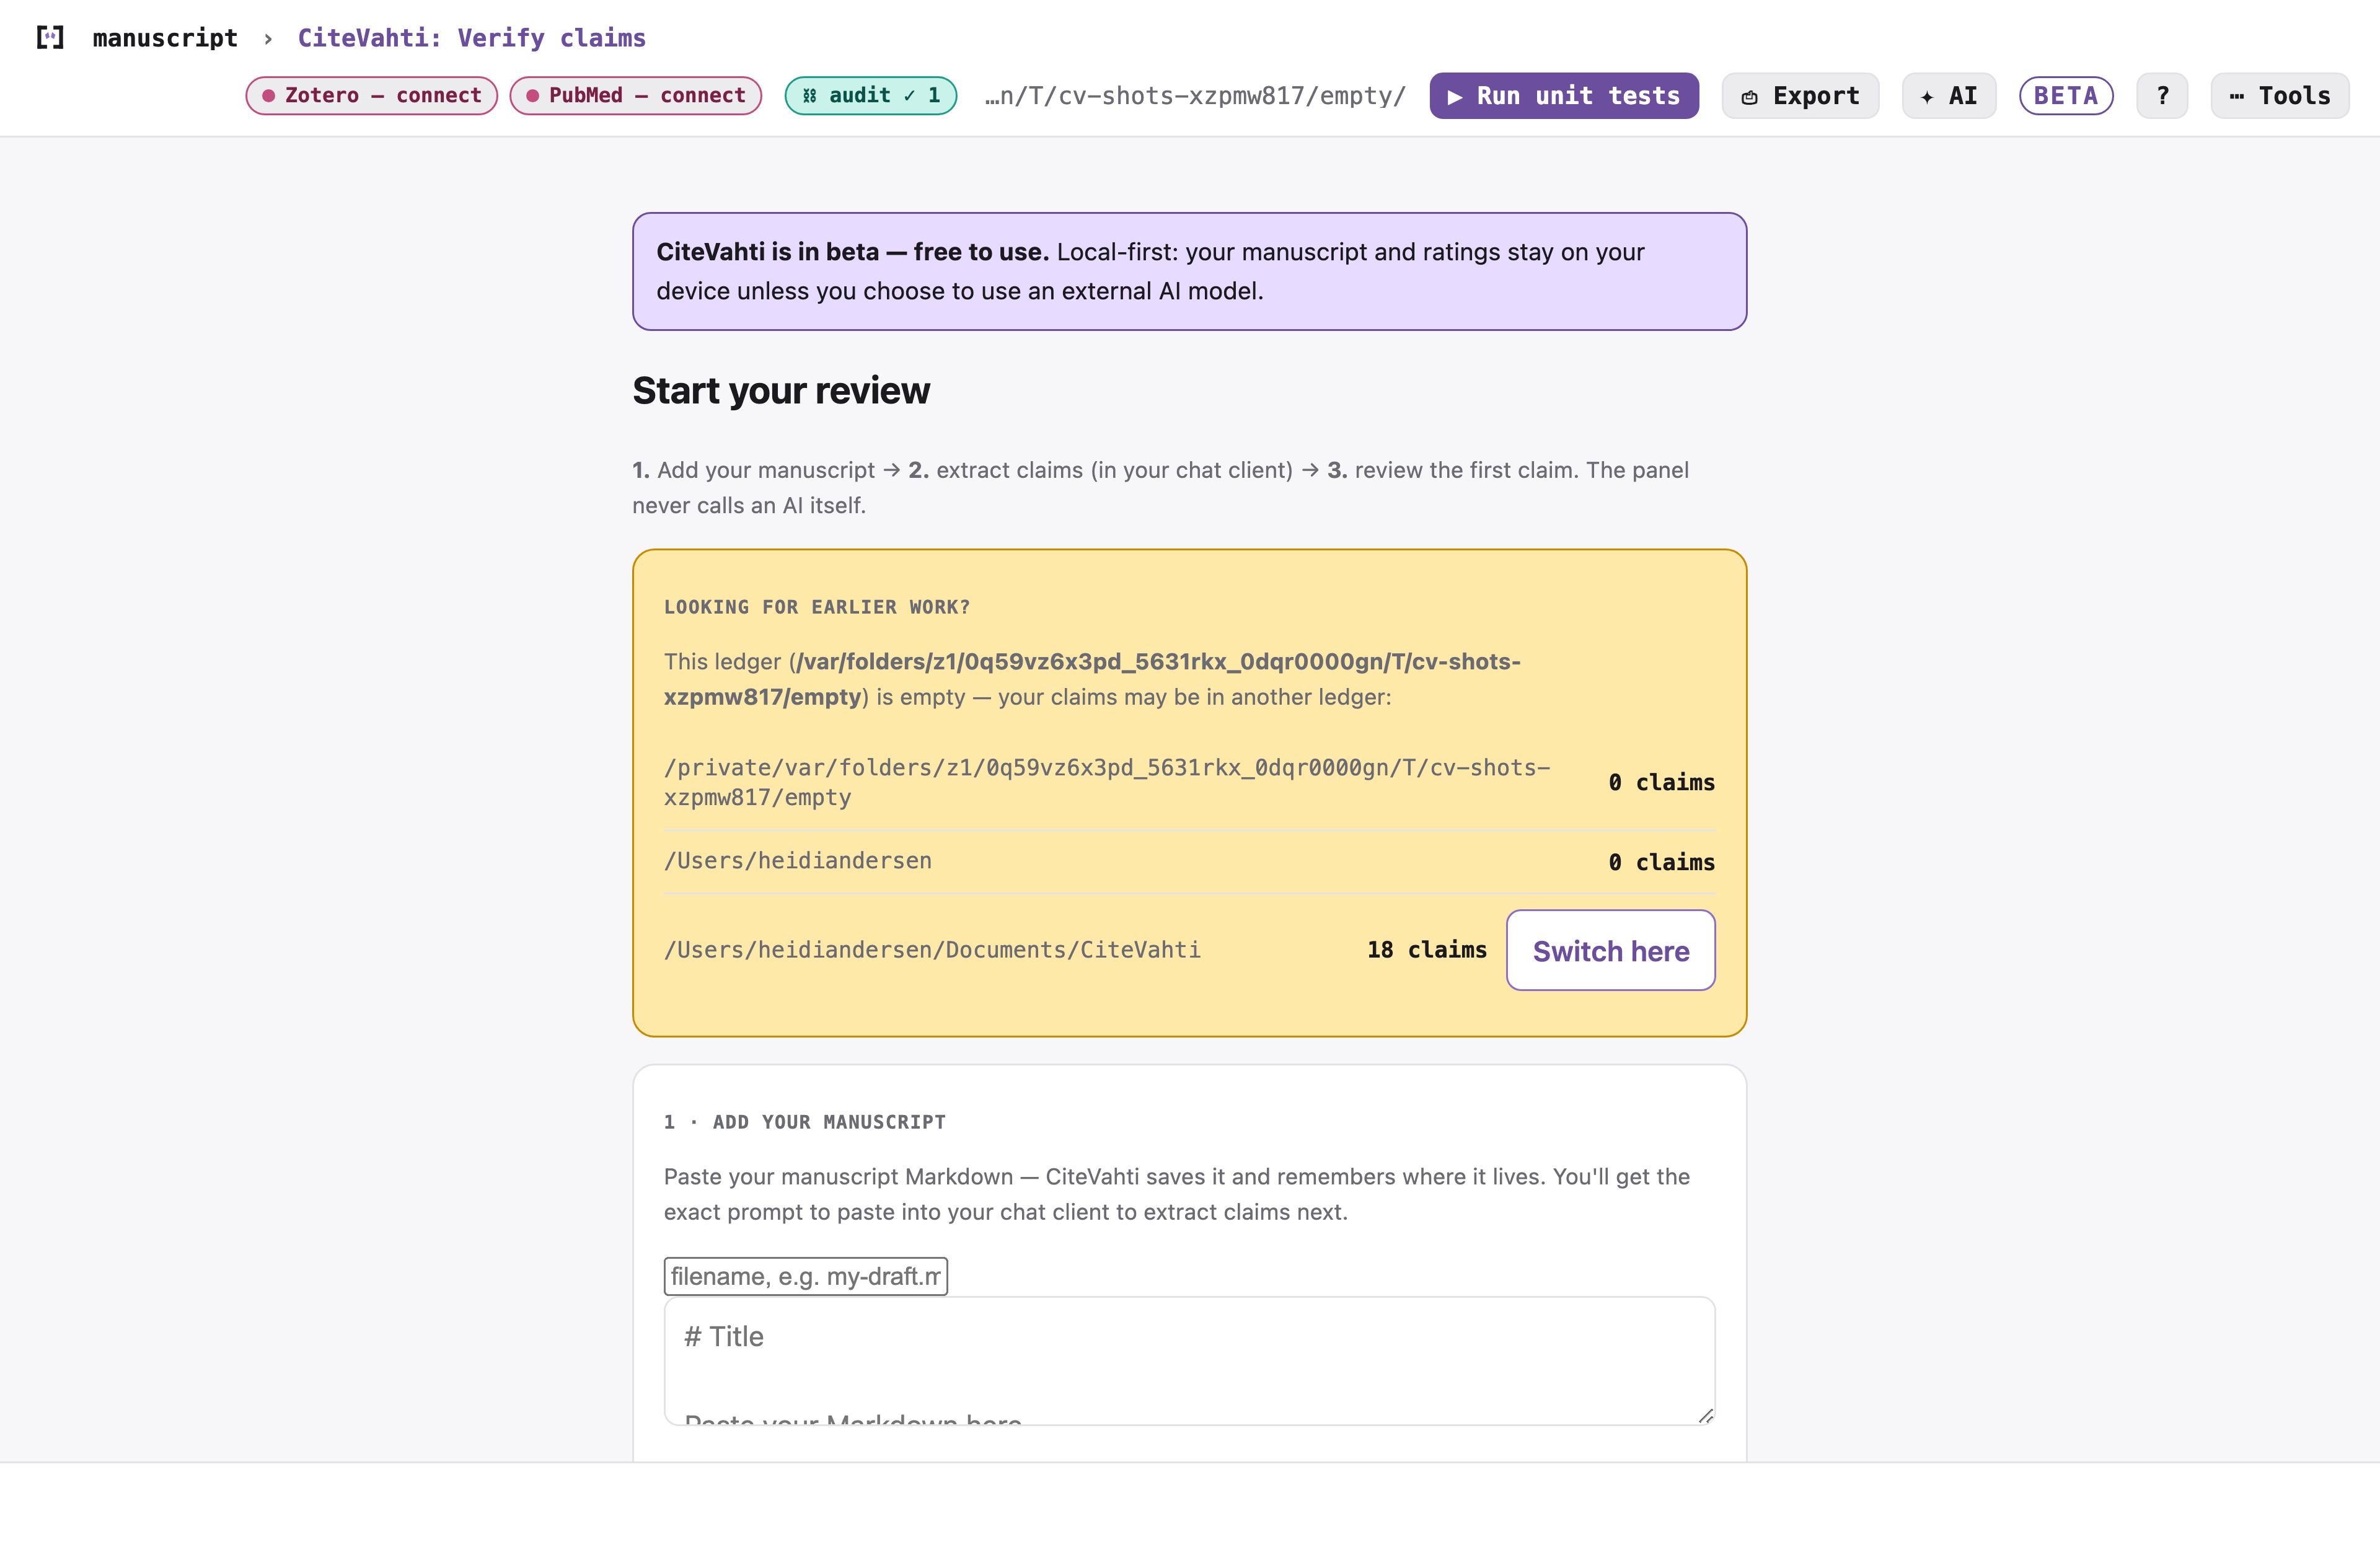
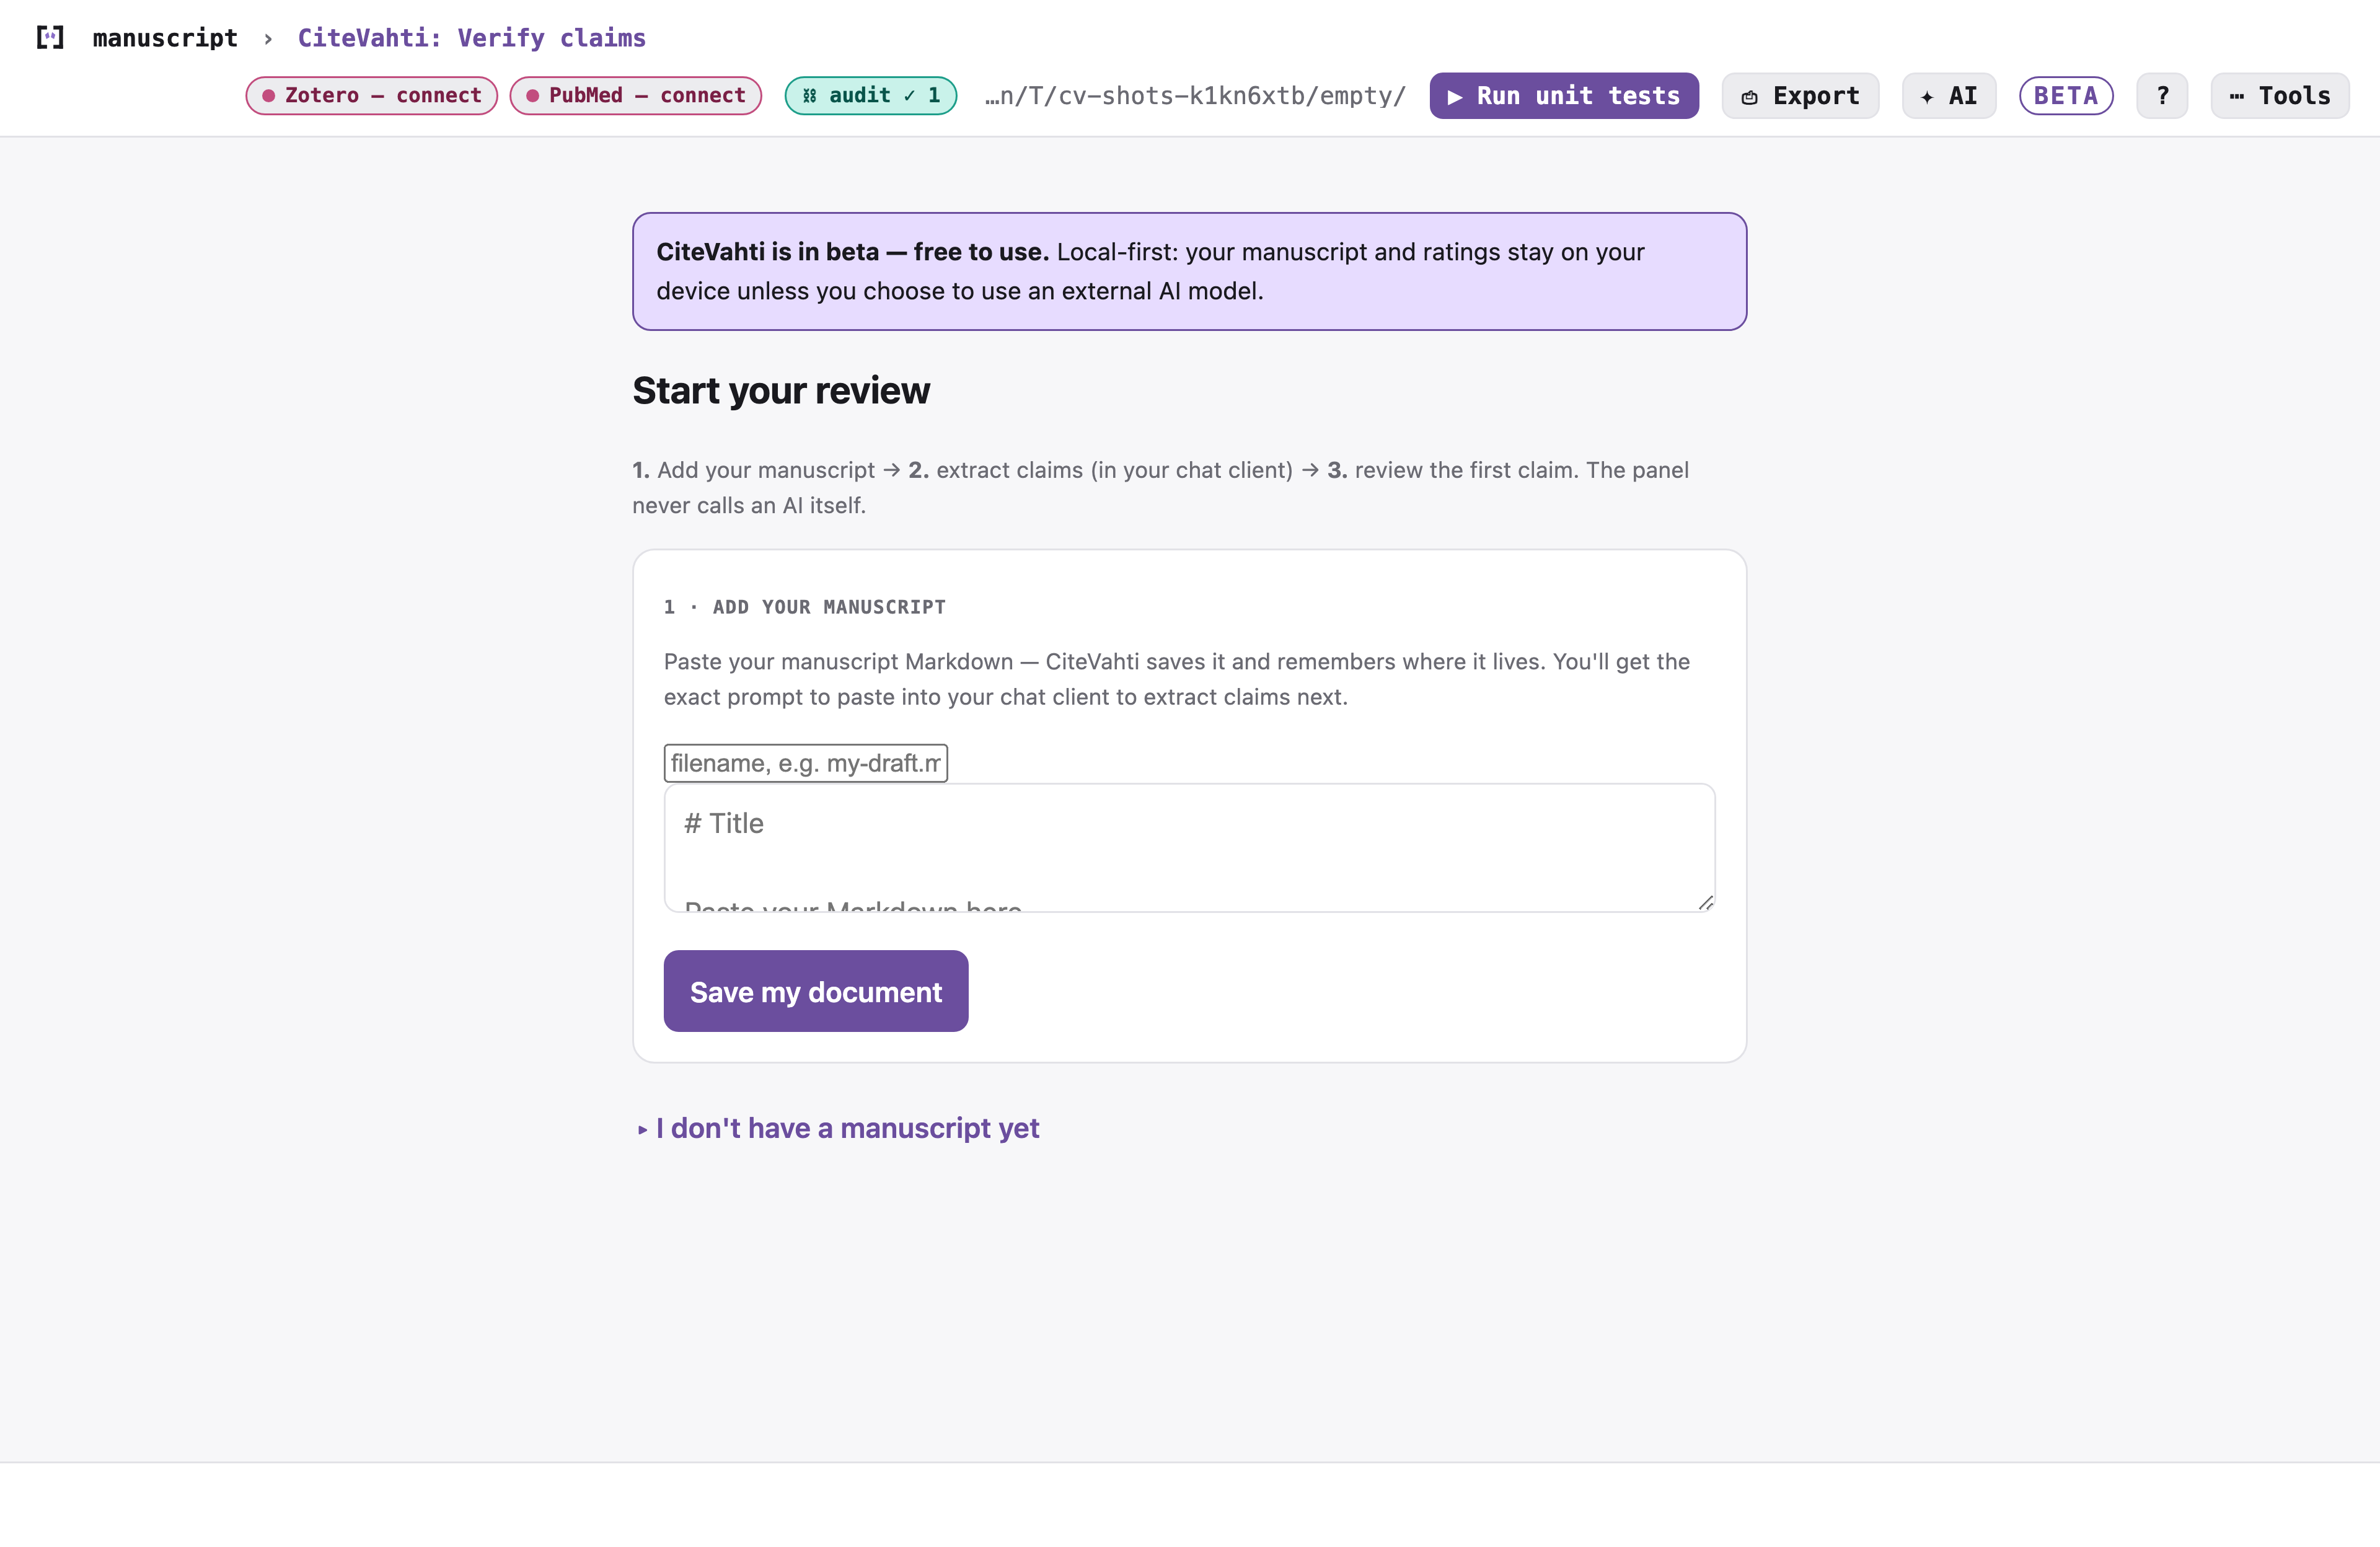
docs: scrub personal paths from the first-run screenshot (#111)
03-first-run.png showed the developer's real ledger discovery — a username and
local paths (/Users/<name>/Documents/CiteVahti, claim counts) in the "Looking
for earlier work?" recovery panel, because ledger discovery scanned the real
$HOME.

Fix the capture tool to run the panel with an isolated sandbox HOME (+ cwd) so
discovery can never find real ledgers; with no other ledgers to offer, the
recovery panel isn't rendered — a true clean first-run. Regenerated 03 only.

Changed region(s): [[0.25, 0.3438, 0.75, 0.6875], [0.2812, 0.7188, 0.625, 0.875], [0.6562, 0.75, 0.6875, 0.7812]]

diff --git a/docs/demo/capture_screenshots.py b/docs/demo/capture_screenshots.py
@@ -84,11 +84,18 @@ def _decided_claim(root: Path) -> str | None:
     return None
 
 
-def _start_panel(root: Path, port: int) -> subprocess.Popen:
+def _start_panel(root: Path, port: int, home: Path) -> subprocess.Popen:
     import os
+    # Isolate HOME so ledger discovery (~/.citevahti, ~/Documents/CiteVahti/.citevahti)
+    # can never pick up the developer's REAL ledgers — those would leak a username and
+    # paths into the first-run screenshot. With an empty sandbox HOME the empty ledger
+    # has no "other ledgers" to offer, so the recovery panel isn't rendered at all.
+    home.mkdir(parents=True, exist_ok=True)
+    env = {**os.environ, "PYTHONPATH": str(SRC), "HOME": str(home),
+           "USERPROFILE": str(home), "XDG_CONFIG_HOME": str(home / ".config")}
     proc = subprocess.Popen(
         [sys.executable, "-m", "citevahti.panel.server", "--root", str(root), "--port", str(port)],
-        env={**os.environ, "PYTHONPATH": str(SRC)},
+        env=env, cwd=str(home),       # cwd too, so ./.citevahti can't match a real ledger
         stdout=subprocess.DEVNULL, stderr=subprocess.DEVNULL)
     base = f"http://127.0.0.1:{port}"
     for _ in range(100):  # ~10s
@@ -135,7 +142,9 @@ def main() -> None:
         _build_ledger(demo, empty=False)
         _build_ledger(empty, empty=True)
         demo_port, empty_port = _free_port(), _free_port()
-        procs += [_start_panel(demo, demo_port), _start_panel(empty, empty_port)]
+        sandbox_home = tmp / "home"      # empty HOME → ledger discovery finds nothing real
+        procs += [_start_panel(demo, demo_port, sandbox_home),
+                  _start_panel(empty, empty_port, sandbox_home)]
         demo_base, empty_base = f"http://127.0.0.1:{demo_port}", f"http://127.0.0.1:{empty_port}"
         focus = args.focus or _rate_phase_claim(demo)
         focus_q = f"&focus={focus}" if focus else ""